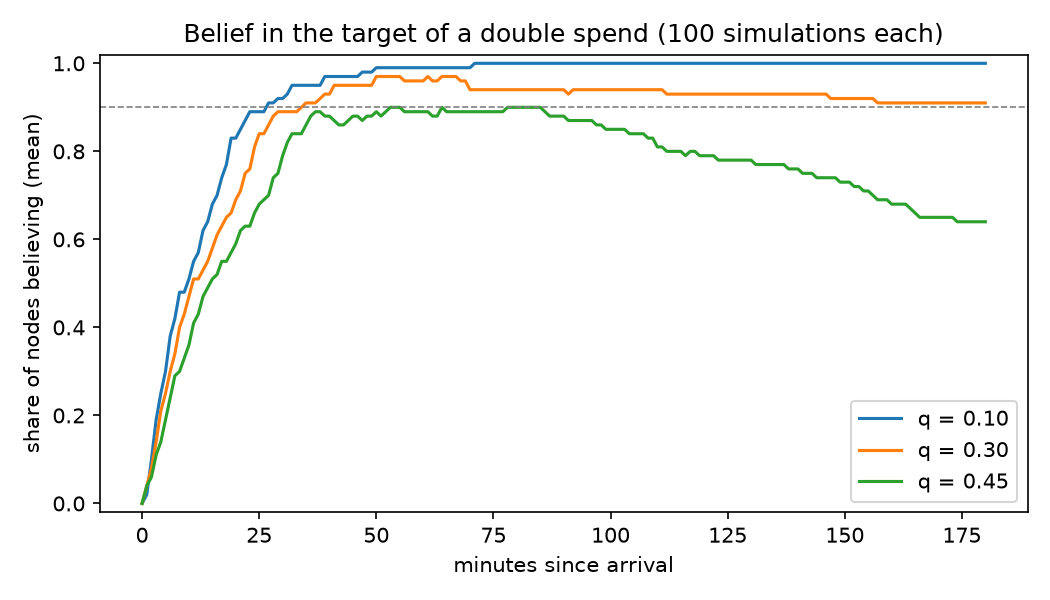
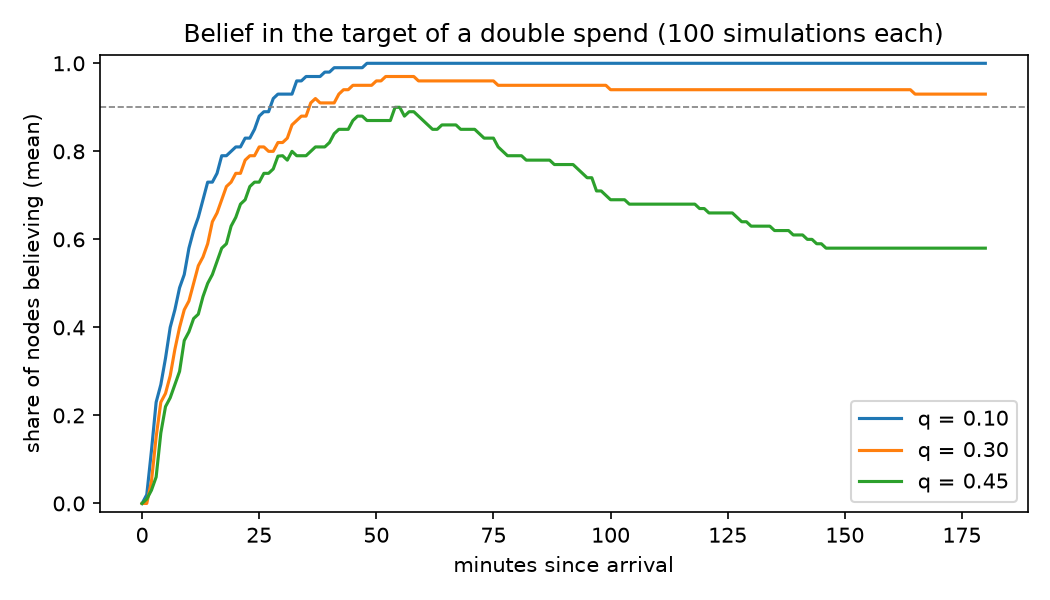
docs: re-measure the presets, attacks, fork sweep and demo with scrambled seeds
Every documented measurement that derives per-simulation seeds was re-run
on this branch: presets (10 simulations each), selfish and double-spend
sweeps, the 400-run q = 0.40 check, the fork sweep and the demo figure.
The analysis was first checked against the published numbers with
master's jar (it reproduces them, e.g. 606 s +- 93, var/mean 0.89).

The attack checks now agree more closely with theory (double spend at
q = 0.40: 0.347 +- 0.047 vs 0.344, was 0.378; selfish at alpha = 0.40:
0.487 vs 0.489, was 0.516). The 10-simulation preset table came out
5-12% fast in every preset because the presets share seeds; 200-sim
runs are on target (Litecoin 150.2 s, Bitcoin Cash 605 s, var/mean 1.10
and 1.09), so the README's interval row now cites those. At D/T = 0.1
the fork-rate prediction is now just outside its interval; the README
says so.

diff --git a/examples/networks/README.md b/examples/networks/README.md
@@ -37,17 +37,17 @@ Shared settings:
 
 | Preset | Mean block interval (± SD across simulations) | Stale blocks | Blocks per simulation | Run time per simulation |
 |---|---|---|---|---|
-| `bitcoin` (4 h) | 606 s ± 93 | 0 % | 24 | 23 s |
-| `bitcoin-cash` (4 h) | 606 s ± 93 | 0 % | 24 | 0.5 s |
-| `litecoin` (2 h) | 153 s ± 8 | 0 % | 46 | 0.9 s |
-| `dogecoin` (1 h) | 60.5 s ± 4.3 | 0 % | 59 | 0.1 s |
-| `zcash` (1.5 h) | 76.2 s ± 5.2 | 0.14 % | 70 | 0.1 s |
-| `ethereum-classic` (30 min) | 13.3 s ± 1.6 | 0.80 % | 137 | 0.1 s |
-| `cardano` (1 h) | 20.2 s ± 2.1 | 2.18 % | 183 | 0.3 s |
+| `bitcoin` (4 h) | 530 s ± 43 | 0 % | 26 | 23 s |
+| `bitcoin-cash` (4 h) | 568 s ± 142 | 0 % | 25 | 0.5 s |
+| `litecoin` (2 h) | 143 s ± 18 | 0 % | 50 | 0.9 s |
+| `dogecoin` (1 h) | 56.8 s ± 4.7 | 0 % | 62 | 0.1 s |
+| `zcash` (1.5 h) | 71.4 s ± 6.6 | 0 % | 74 | 0.1 s |
+| `ethereum-classic` (30 min) | 12.7 s ± 0.7 | 1.06 % | 141 | 0.1 s |
+| `cardano` (1 h) | 18.9 s ± 1.2 | 2.00 % | 190 | 0.3 s |
 
-Bitcoin and Bitcoin Cash have the same target interval and seeds, and mining does not depend on block contents, so their block times coincide; they differ in block size and load. Bitcoin's run time is dominated by its 72,000 transactions, each gossiped to 19 peers.
+Ten simulations are a small sample, and the presets share their seeds, so they share their luck: in this run every preset came out 5 to 12% faster than its target. Over 200 simulations Litecoin averages 150.2 s and Bitcoin Cash 605 s, with Poisson-distributed block counts. Bitcoin and Bitcoin Cash have the same target interval and seeds, but when each miner draws its next interval depends on the transactions, so their block times differ. Bitcoin's run time is dominated by its 72,000 transactions, each gossiped to 19 peers.
 
-"Stale" is the share of decided blocks that did not end up on the chain all nodes agree on (`cd tools/finality && uv run cnsim-finality forks ../../out/<preset>`, which also gives intervals). It is near zero for the proof-of-work presets because blocks reach every node in a fraction of a second, which is small next to their intervals. Cardano's stale blocks come from slot battles: two pools winning the same slot. Ten simulations are few blocks for rates this small: Bitcoin's 0 % of 239 blocks has a 95% upper bound of 1.6 %, so run more simulations to compare with measured stale rates of real chains. [examples/forks](../forks/README.md) checks the fork model against theory.
+"Stale" is the share of decided blocks that did not end up on the chain all nodes agree on (`cd tools/finality && uv run cnsim-finality forks ../../out/<preset>`, which also gives intervals). It is near zero for the proof-of-work presets because blocks reach every node in a fraction of a second, which is small next to their intervals. Cardano's stale blocks come from slot battles: two pools winning the same slot. Ten simulations are few blocks for rates this small: Bitcoin's 0 % of 264 blocks has a 95% upper bound of 1.4 %, so run more simulations to compare with measured stale rates of real chains. [examples/forks](../forks/README.md) checks the fork model against theory.
 
 ## What is and is not modelled
 

diff --git a/README.md b/README.md
@@ -6,7 +6,7 @@ This repository is the MSc-thesis fork (York University, 2025) of the Conceptual
 
 ![Network belief in the target of a double spend, for attackers with 10%, 30% and 45% of the hash power](docs/img/double-spend-belief.png)
 
-*Belief in the target of a double-spend attack over 100 simulations per attacker share (`tools/demo.sh`, about 15 s). Estimated finality at threshold 0.9 within 3 hours: 1.00 against a 10% attacker, 0.91 [0.84, 0.95] against 30%, 0.64 [0.54, 0.73] against 45%.*
+*Belief in the target of a double-spend attack over 100 simulations per attacker share (`tools/demo.sh`, about 15 s). Estimated finality at threshold 0.9 within 3 hours: 1.00 against a 10% attacker, 0.93 [0.86, 0.97] against 30%, 0.58 [0.48, 0.67] against 45%.*
 
 ## Quick start
 
@@ -50,12 +50,12 @@ All settings are listed in [docs/configuration.md](docs/configuration.md); [docs
 
 | Check | Result |
 |---|---|
-| Selfish mining vs Eyal and Sirer's revenue formula R(α, γ), with γ measured from the logs | Within ~0.01 up to α = 0.35; reproduces the ~1/3 profitability threshold |
-| Double-spend success vs the exact probability of the block race (dynamic programming over the attacker's rules) | Within the 95% intervals for q = 0.1 to 0.45 (0.378 ± 0.048 vs 0.344 over 400 runs at q = 0.40) |
+| Selfish mining vs Eyal and Sirer's revenue formula R(α, γ), with γ measured from the logs | Within ~0.005 up to α = 0.40 (0.487 vs 0.489); 0.025 below at 0.45; reproduces the ~1/3 profitability threshold |
+| Double-spend success vs the exact probability of the block race (dynamic programming over the attacker's rules) | Within the 95% intervals for q = 0.1 to 0.45 (0.347 ± 0.047 vs 0.344 over 400 runs at q = 0.40) |
 | Which side's branch survives a network partition vs the Poisson race ([examples/partitions](examples/partitions/README.md)) | Within the 95% intervals for 10% to 50% of the hash power cut off (0.092 [0.068, 0.125] vs 0.090 at 30%); the longer branch won all 1,893 untied races |
-| Fork rate vs 1 − Σ s·e^(−(1−s)D/T) for a block delay D ([examples/forks](examples/forks/README.md)) | Within the 95% intervals for D/T = 0.01 to 0.3 (8.51% [8.12, 8.93] vs 8.52% at D/T = 0.1); 1.4 points below at 0.49, the expected second-order gap |
-| Mean block interval vs target, every preset | On target (e.g. Litecoin 153 s ± 8 for 150 s; Ethereum Classic 13.3 s for 13 s) |
-| Block counts over 200 simulations | Poisson-consistent (variance/mean 0.89 ± 0.10) |
+| Fork rate vs 1 − Σ s·e^(−(1−s)D/T) for a block delay D ([examples/forks](examples/forks/README.md)) | Within the 95% intervals for D/T = 0.01 to 0.05, 0.2 and 0.3; at 0.1 the prediction (8.66%) is just above [7.85, 8.64]; at larger D the formula overestimates, as expected at second order (1.1 points at 0.5) |
+| Mean block interval vs target (Litecoin and Bitcoin Cash presets, 200 simulations each) | 150.2 s for 150 s; 605 s for 600 s |
+| Block counts over those 200 simulations | Poisson-consistent (variance/mean 1.10 and 1.09, ± 0.10) |
 | Finality estimators vs the method paper's worked example | Exact |
 | Determinism | A golden run's logs are hashed in CI on JDK 21 and 25 |
 

diff --git a/examples/attacks/README.md b/examples/attacks/README.md
@@ -25,18 +25,18 @@ Measured (20 simulations per share, `selfish_sweep.sh`):
 
 | α | Revenue (95% CI) | R(α, 0) | Measured γ | R(α, γ) |
 |---|---|---|---|---|
-| 0.10 | 0.043 ± 0.004 | 0.036 | 0.08 | 0.041 |
-| 0.20 | 0.139 ± 0.007 | 0.130 | 0.07 | 0.137 |
-| 0.25 | 0.202 ± 0.008 | 0.195 | 0.07 | 0.203 |
-| 0.30 | 0.272 ± 0.009 | 0.273 | 0.07 | 0.281 |
-| 0.33 | 0.320 ± 0.010 | 0.327 | 0.08 | 0.335 |
-| 0.35 | 0.370 ± 0.010 | 0.367 | 0.08 | 0.375 |
-| 0.40 | 0.516 ± 0.011 | 0.484 | 0.08 | 0.490 |
-| 0.45 | 0.630 ± 0.011 | 0.652 | 0.07 | 0.656 |
+| 0.10 | 0.044 ± 0.004 | 0.036 | 0.08 | 0.042 |
+| 0.20 | 0.141 ± 0.007 | 0.130 | 0.08 | 0.138 |
+| 0.25 | 0.207 ± 0.008 | 0.195 | 0.07 | 0.203 |
+| 0.30 | 0.281 ± 0.009 | 0.273 | 0.07 | 0.280 |
+| 0.33 | 0.340 ± 0.010 | 0.327 | 0.08 | 0.335 |
+| 0.35 | 0.371 ± 0.010 | 0.367 | 0.07 | 0.374 |
+| 0.40 | 0.487 ± 0.011 | 0.484 | 0.06 | 0.489 |
+| 0.45 | 0.632 ± 0.011 | 0.652 | 0.09 | 0.657 |
 
-The simulation reproduces the paper's main result: with γ near 0, selfish mining pays only above about α = 1/3 (revenue 0.320 at α = 0.33, 0.370 at α = 0.35). Up to α = 0.35 revenue matches R(α, γ) within about 0.01.
+The simulation reproduces the paper's main result: with γ near 0, selfish mining pays only above about α = 1/3 (revenue 0.281 at α = 0.30, 0.340 at α = 0.33). Up to α = 0.40 revenue matches R(α, γ) within about 0.005.
 
-At 0.40 and 0.45 it is off by about 0.026. Five times longer runs (4 simulations of about 3,000 blocks each) give 0.486 ± 0.011 at α = 0.40 (R = 0.489) and 0.668 ± 0.011 at α = 0.45 (R = 0.656). Two things explain the gap at the standard length:
+At 0.45 it is 0.025 below. Two things bias the measurement at large α:
 
 - the intervals treat blocks as independent, while a long selfish lead correlates many blocks in a row, so the stated intervals are too narrow for large α;
 - blocks still withheld when a run ends are never counted.
@@ -58,12 +58,12 @@ Measured (100 simulations per share, `double_spend_sweep.sh`):
 | q | Success rate (95% CI) | Exact race probability |
 |---|---|---|
 | 0.10 | 0.000 | 0.001 |
-| 0.20 | 0.010 ± 0.020 | 0.023 |
+| 0.20 | 0.030 ± 0.033 | 0.023 |
 | 0.30 | 0.090 ± 0.056 | 0.116 |
-| 0.40 | 0.280 ± 0.088 | 0.344 |
-| 0.45 | 0.440 ± 0.097 | 0.505 |
+| 0.40 | 0.300 ± 0.090 | 0.344 |
+| 0.45 | 0.470 ± 0.098 | 0.505 |
 
-All five are within their intervals. A larger check at q = 0.40, 400 simulations, gives 0.378 ± 0.048.
+All five are within their intervals. A larger check at q = 0.40, 400 simulations, gives 0.347 ± 0.047.
 
 Building this comparison exposed a bug in the attacker. When it mined the target's block itself, it kept two mining events alive and mined at twice its hash rate for the rest of the run. With q = 0.30, 5 of 10 attacks succeeded where the race allows 11.6%. It is fixed; the fix commit has the details.
 

diff --git a/examples/forks/README.md b/examples/forks/README.md
@@ -36,17 +36,17 @@ Measured (10 simulations per delay, about 20,000 settled heights each, `fork_swe
 
 | D | D/T | Fork rate (95% CI) | Predicted | Stale rate |
 |---|---|---|---|---|
-| 0.6 s | 0.01 | 0.83% [0.71%, 0.97%] | 0.89% | 0.82% |
-| 1.2 s | 0.02 | 1.64% [1.47%, 1.83%] | 1.77% | 1.63% |
-| 3 s | 0.05 | 4.22% [3.94%, 4.51%] | 4.36% | 4.16% |
-| 6 s | 0.10 | 8.51% [8.12%, 8.93%] | 8.52% | 8.14% |
-| 12 s | 0.20 | 16.45% [15.89%, 17.02%] | 16.32% | 15.12% |
-| 18 s | 0.30 | 23.00% [22.35%, 23.67%] | 23.45% | 20.60% |
-| 30 s | 0.49 | 34.51% [33.72%, 35.30%] | 35.94% | 29.64% |
+| 0.6 s | 0.01 | 0.93% [0.80%, 1.07%] | 0.90% | 0.92% |
+| 1.2 s | 0.02 | 1.79% [1.61%, 1.98%] | 1.80% | 1.78% |
+| 3 s | 0.05 | 4.20% [3.93%, 4.49%] | 4.43% | 4.13% |
+| 6 s | 0.10 | 8.23% [7.85%, 8.64%] | 8.66% | 7.91% |
+| 12 s | 0.20 | 16.11% [15.57%, 16.67%] | 16.58% | 14.93% |
+| 18 s | 0.30 | 23.30% [22.65%, 23.96%] | 23.80% | 20.83% |
+| 30 s | 0.50 | 35.32% [34.53%, 36.11%] | 36.42% | 29.94% |
 
-Up to D/T = 0.3 the prediction lies inside every interval. At D/T = 0.49 the simulation is 1.4 points below it, which is the expected second-order overestimate. The stale rate falls increasingly below the fork rate as D grows, because at long delays a fork is more often followed by another one on the losing branch: the longest stale branch grows from 1 block at D/T = 0.01 to 4 at 0.49.
+The prediction lies inside the intervals for D/T up to 0.05 and at 0.2 and 0.3; at 0.1 it is 0.02 points above the interval. From D/T = 0.05 on the simulation is consistently below the prediction, by 0.2 to 0.5 points and 1.1 at 0.5, which is the direction of the formula's second-order overestimate. The stale rate falls increasingly below the fork rate as D grows, because at long delays a fork is more often followed by another one on the losing branch: the longest stale branch grows from 1 block at D/T = 0.01 to 4 at 0.5.
 
-Caveats: the intervals treat heights as independent, while consecutive heights are slightly correlated. Every delay uses the same seeds, so the rows share their mining randomness: the block interval is 60.67 s in all of them.
+Caveats: the intervals treat heights as independent, while consecutive heights are slightly correlated. Every delay uses the same seeds, so the rows share their mining randomness: the block interval is 59.62 s in all of them.
 
 ## Using it on other runs
 

diff --git a/CHANGELOG.md b/CHANGELOG.md
@@ -27,7 +27,7 @@ The thesis and CCS26 results were produced with the code at tag `thesis-v1.0-art
 - **`cnsim-finality`** (`tools/finality/`): the CNSim paper's estimators (finality, time to finality, aggregate belief), tested on the paper's own example.
 - `tools/demo.sh`: double-spend finality by attacker share in one command.
 - **Network partitions** (`net.partition.nodes`, `net.partition.start`, `net.partition.end`): the listed nodes are cut off from the others for a while; blocks and transactions sent across the cut arrive when it heals. `examples/partitions/` and `tools/partitions/` check which side's branch survives against the Poisson race: within the 95% intervals for 10% to 50% of the hash power cut off, and the longer branch won every untied race.
-- **`cnsim-finality forks`**: stale-block rate, fork rate, longest stale branch and unplaced blocks per run, measured against the chain every node agrees on; with `--delay D`, the fork rate the closed form predicts. `examples/forks/` and `tools/forks/fork_sweep.sh` check the network and fork model against that closed form: within the 95% intervals up to D/T = 0.3.
+- **`cnsim-finality forks`**: stale-block rate, fork rate, longest stale branch and unplaced blocks per run, measured against the chain every node agrees on; with `--delay D`, the fork rate the closed form predicts. `examples/forks/` and `tools/forks/fork_sweep.sh` check the network and fork model against that closed form: within the 95% intervals at most delays, and below the prediction where it is expected to overestimate.
 - **Provenance** file with every run: commit, uncommitted-changes flag, Java version, command line, and input-file hashes.
 - `--set key=value` command-line overrides.
 - **`--parallel N`**: the simulations of a run in N processes, with merged logs identical to a sequential run's.
